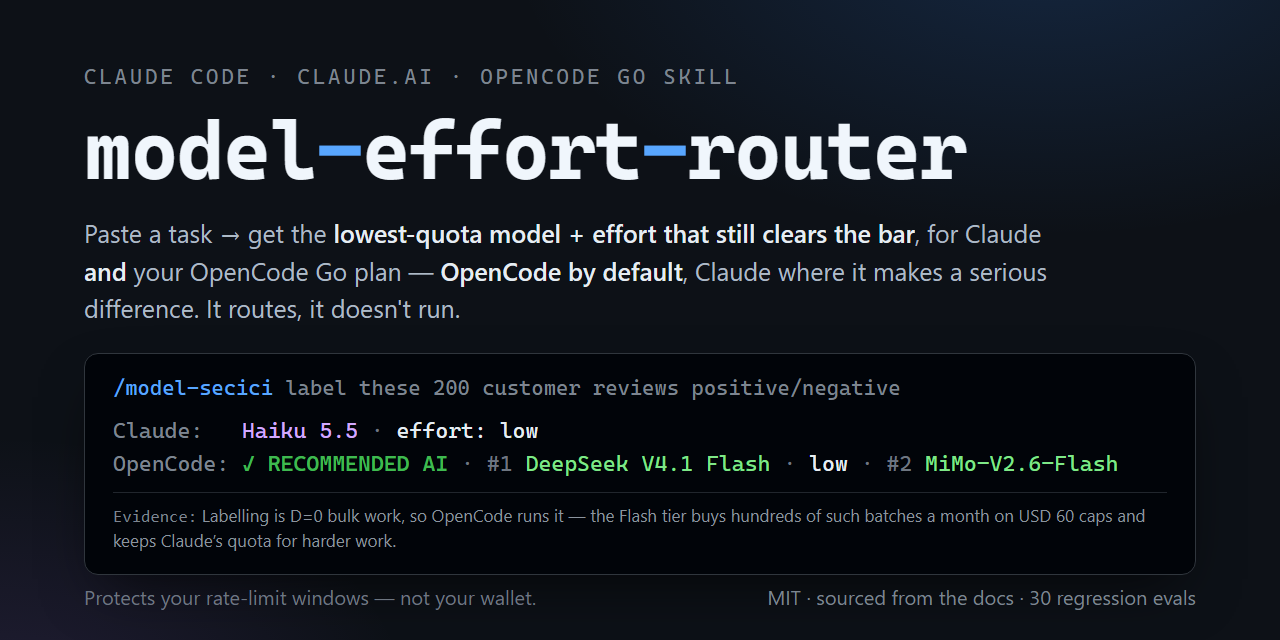
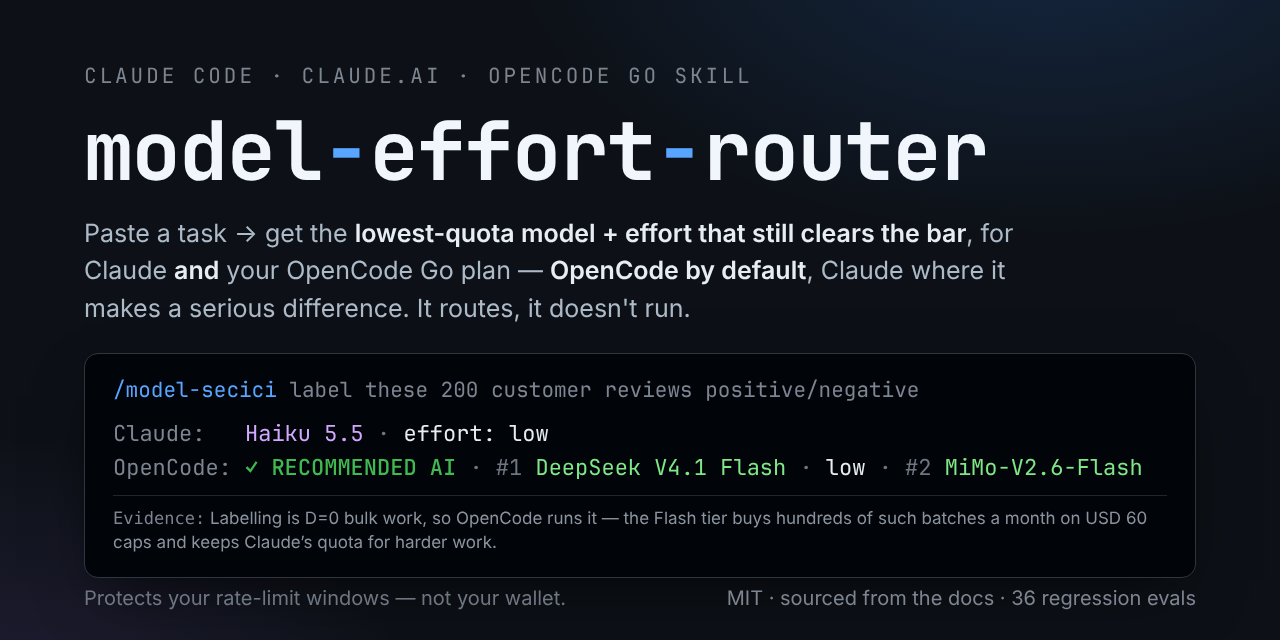
ci: add checks workflow, CI badge, refresh social preview
- .github/workflows/checks.yml runs the grader self-test, policy sync,
  pool, example, benchmark-validation and frontier-compiler checks
  (stdlib Python only; all pass locally)
- Add the checks badge to README.md and README.tr.md
- Regenerate docs/social-preview.png: 30 -> 36 regression evals

Claude-Session: https://claude.ai/code/session_01N4RUWU9ZLm9fcaTz1g3wqo

diff --git a/docs/social-preview.html b/docs/social-preview.html
@@ -101,7 +101,7 @@
 
   <div class="foot">
     <span>Protects your rate-limit windows &mdash; not your wallet.</span>
-    <span class="r">MIT · sourced from the docs · 30 regression evals</span>
+    <span class="r">MIT · sourced from the docs · 36 regression evals</span>
   </div>
 </body>
 </html>

diff --git a/README.md b/README.md
@@ -4,6 +4,7 @@
 
 <br>
 
+[![checks](https://github.com/enzoo808/model-effort-router/actions/workflows/checks.yml/badge.svg)](https://github.com/enzoo808/model-effort-router/actions/workflows/checks.yml)
 [![License: MIT](https://img.shields.io/badge/license-MIT-3fb950?style=flat-square)](LICENSE)
 [![Claude Code skill](https://img.shields.io/badge/Claude_Code-skill-d2a8ff?style=flat-square)](#-install)
 [![claude.ai](https://img.shields.io/badge/claude.ai-custom_skill-58a6ff?style=flat-square)](#-install)

diff --git a/README.tr.md b/README.tr.md
@@ -4,6 +4,7 @@
 
 <br>
 
+[![checks](https://github.com/enzoo808/model-effort-router/actions/workflows/checks.yml/badge.svg)](https://github.com/enzoo808/model-effort-router/actions/workflows/checks.yml)
 [![License: MIT](https://img.shields.io/badge/lisans-MIT-3fb950?style=flat-square)](LICENSE)
 [![Claude Code skill](https://img.shields.io/badge/Claude_Code-skill-d2a8ff?style=flat-square)](#-kurulum)
 [![claude.ai](https://img.shields.io/badge/claude.ai-custom_skill-58a6ff?style=flat-square)](#-kurulum)
